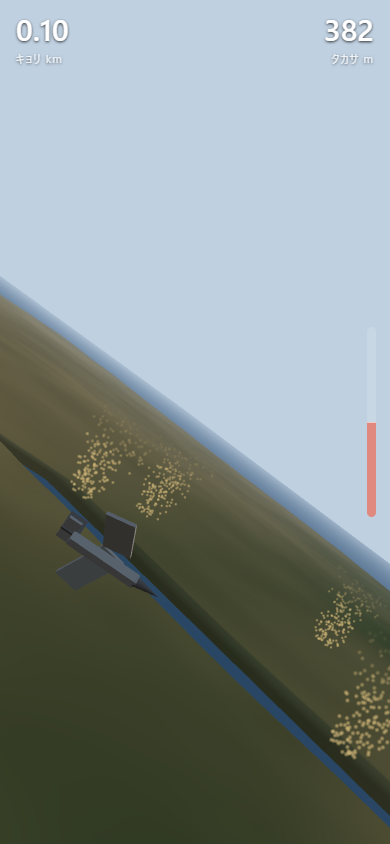
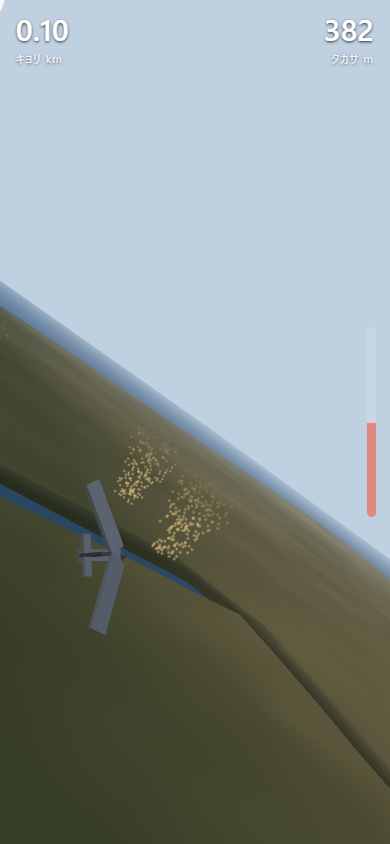
左右の符号を直した(機体の向き・旋回方向・地形の裏面)
所長の指摘どおり、動きが根本的に間違っていた。

- 機体の向きが左右反転しており、曲がった角度の2倍だけ機首がずれていった。
  出発時は head=0 なので直進中は正しく見え、旋回して初めて破綻する。
  「旋回後に戻らない」「先端がこちらを向く」はこれが原因。
- three.jsは右手系で +X は画面の左に出る。シミュレーション側の x をそのまま
  渡していたので、右を押すと画面では左へ曲がっていた。
- 上を直した結果、X反転で三角形の巻き順が逆になり地形が裏面で消えたので巻き順も反転。

これまでのタッチ検査は bank の符号しか見ておらず、画面がどちらに回るかを
一度も確かめていなかった。tools/check-signs.mjs を追加して、
正面の目印の流れる向き・翼の上下・地平線の傾き・機首と進行方向のズレを検査する。

diff --git a/src/scene.js b/src/scene.js
@@ -1,5 +1,9 @@
 import * as THREE from 'three';
 
+// three.jsは右手系で、+X は画面の左に出る。
+// シミュレーション側の x(右が正) をそのまま渡すと左右が反転するので、描画のときだけ反転させる。
+const SX = -1;
+
 // 地形は運ばず、その場で作る。プレイヤーに合わせて格子をスナップして高さを引き直す。
 class Ground {
   constructor(terrain, size, seg, opts = {}) {
@@ -12,7 +16,7 @@ class Ground {
     const idx = [];
     for (let j = 0; j < seg; j++) for (let i = 0; i < seg; i++) {
       const a = j * (seg + 1) + i, b = a + 1, c = a + seg + 1, d = c + 1;
-      idx.push(a, c, b, b, c, d);
+      idx.push(a, b, c, b, d, c);   // SXでX反転しているぶん巻き順も反転
     }
     g.setAttribute('position', new THREE.BufferAttribute(this.pos, 3));
     g.setAttribute('color', new THREE.BufferAttribute(this.col, 3));
@@ -35,7 +39,7 @@ class Ground {
       let z = t.height(x, y);
       // 内側は高精細メッシュが描くので、ここは沈めて隠す
       if (hole && Math.abs(x - cx) < hole && Math.abs(y - cy) < hole) z = -9999;
-      this.pos[k] = x; this.pos[k + 1] = z; this.pos[k + 2] = y;
+      this.pos[k] = SX * x; this.pos[k + 1] = z; this.pos[k + 2] = y;
       const m = t.moisture(x, y);
       c.copy(dry).lerp(wet, m);
       const grain = 0.86 + 0.28 * t.grain(x, y);   // 近景の手がかり(速度と向きが読める)
@@ -113,7 +117,7 @@ class Dust {
         if (p.u > 1) { p.u -= 1; p.a = Math.random() * Math.PI * 2; p.r = Math.random(); }
         const rad = c.R * (0.18 + 0.72 * p.r) * (0.35 + 0.65 * p.u);
         const k = n * 3;
-        this.pos[k] = c.x + Math.cos(p.a + p.u * 5.0) * rad;
+        this.pos[k] = SX * (c.x + Math.cos(p.a + p.u * 5.0) * rad);
         this.pos[k + 1] = c.gz + 6 + (c.top - c.gz + 60) * p.u;
         this.pos[k + 2] = c.y + Math.sin(p.a + p.u * 5.0) * rad;
         this.alpha[n] = Math.min(1, (1 - p.u) * 1.7) * Math.min(1, c.W / 7);
@@ -156,7 +160,7 @@ class Clouds {
         if (!s || s.c !== c) s = this.seeds[n] = { c, a: Math.random() * 6.28, r: Math.random(), h: Math.random() };
         const rad = c.R * (0.25 + 0.85 * s.r);
         const k = n * 3;
-        this.pos[k] = c.x + Math.cos(s.a) * rad;
+        this.pos[k] = SX * (c.x + Math.cos(s.a) * rad);
         this.pos[k + 1] = c.top + 40 + s.h * 55;
         this.pos[k + 2] = c.y + Math.sin(s.a) * rad;
         this.alpha[n] = 0.75 * Math.min(1, (c.W - 6.5) / 2.5);
@@ -245,6 +249,16 @@ export class View {
   // 検査用: 座標を画面のピクセルへ落とす
   projectLocal(x, y, z) { return this._proj(new THREE.Vector3(x, y, z).applyMatrix4(this.glider.matrixWorld)); }
   projectWorld(x, y, z) { return this._proj(new THREE.Vector3(x, y, z)); }
+  // 検査用: 機首が向いている向きと、実際に進んでいる向き。ここがズレると機首が明後日を向く
+  gliderForward() {
+    const d = new THREE.Vector3(0, 0, 1).transformDirection(this.glider.matrixWorld);
+    return [d.x, d.y, d.z];
+  }
+  velocityDir(g) {
+    const SXv = SX;
+    const d = new THREE.Vector3(SXv * Math.sin(g.head), 0, Math.cos(g.head)).normalize();
+    return [d.x, d.y, d.z];
+  }
   _proj(v) {
     const q = v.clone().project(this.camera);
     const s = this.renderer.getSize(new THREE.Vector2());
@@ -253,11 +267,11 @@ export class View {
   update(g, dt, sun) {
     this.far.update(g.x, g.y);
     this.near.update(g.x, g.y);
-    this.water.position.x = g.x; this.water.position.z = g.y;
+    this.water.position.x = SX * g.x; this.water.position.z = g.y;
     this.dust.update(g.x, g.y, dt, sun);
     this.clouds.update(g.x, g.y, sun);
-    this.glider.position.set(g.x, g.z, g.y);
-    this.glider.rotation.set(0, -g.head, -g.bank * 1.0, 'YXZ');
+    this.glider.position.set(SX * g.x, g.z, g.y);
+    this.glider.rotation.set(0, -g.head, g.bank, 'YXZ');
     // 夕暮れ。時計ではなく空の色で残り時間が分かる
     const day = new THREE.Color(0xbfd0e0), dusk = new THREE.Color(0xd98a5a), night = new THREE.Color(0x2b3348);
     const sky = sun > 0.35
@@ -267,12 +281,12 @@ export class View {
     this.sunLight.intensity = 0.35 + 1.25 * sun;
     // 太陽は +Y の方角、高度は日照とともに下がる
     const elev = (2.5 + 11 * sun) * Math.PI / 180, D = 9000;
-    const sx = g.x, sy = g.z + Math.sin(elev) * D + 60, sz = g.y + Math.cos(elev) * D;
+    const sx = SX * g.x, sy = g.z + Math.sin(elev) * D + 60, sz = g.y + Math.cos(elev) * D;
     this.sunDisc.position.set(sx, sy, sz);
     this.sunDisc.scale.setScalar(300 + 260 * (1 - sun));
     this.sunDisc.lookAt(this.camera.position);
     this.sunDisc.material.color.setHSL(0.11, 0.55 * (1 - sun) + 0.08, 0.92 - 0.12 * (1 - sun));
-    this.sunLight.position.set(0, Math.sin(elev), Math.cos(elev));
+    this.sunLight.position.set(SX * 0.35, Math.sin(elev), Math.cos(elev));
     const tall = Math.max(0, 1 - this.camera.aspect);      // 縦持ちほど大きい
     const back = 105, up = 28;
     // カメラは機体の向きに遅れてついていく。遅れる分だけ、機体が画面の中で振れて見える
@@ -282,8 +296,8 @@ export class View {
     while (e < -Math.PI) e += 2 * Math.PI;
     this.camHead += e * (1 - Math.exp(-dt / 0.75));
     const ch = this.camHead;
-    this.camera.position.set(g.x - Math.sin(ch) * back, g.z + up, g.y - Math.cos(ch) * back);
-    this.camera.lookAt(g.x + Math.sin(ch) * 320, g.z + 7 + 16 * tall, g.y + Math.cos(ch) * 320);
+    this.camera.position.set(SX * (g.x - Math.sin(ch) * back), g.z + up, g.y - Math.cos(ch) * back);
+    this.camera.lookAt(SX * (g.x + Math.sin(ch) * 320), g.z + 7 + 16 * tall, g.y + Math.cos(ch) * 320);
     this.camera.rotation.z += g.bank * 0.75;
     this.renderer.render(this.scene, this.camera);
   }

diff --git a/src/main.js b/src/main.js
@@ -138,7 +138,9 @@ window.__slice = {
   forceInput: null,
   _view() { return { camHead: view.camHead, dust: view.dust.points, clouds: view.clouds.points,
                      local: (x, y, z) => view.projectLocal(x, y, z),
-                     world: (x, y, z) => view.projectWorld(x, y, z) }; },
+                     world: (x, y, z) => view.projectWorld(x, y, z),
+                     noseDir: () => view.gliderForward(),
+                     velDir: () => view.velocityDir(glider) }; },
   reset,
 };
 

diff --git a/docs/FINDINGS.md b/docs/FINDINGS.md
@@ -84,3 +84,32 @@ km規模・複数サーマルへ広げ、自動操縦で飛ばして比較した
 - 実機GPUでの描画コマ数（測定はswiftshader）
 - 縦持ちと横持ちのどちらを基準にするか
 - 8シード中1つ（seed 113 相当）に出た「今日は飛べない日」を残すか潰すか
+
+## 左右の符号を2か所間違えていた（2026-09-16 遊んでの指摘から）
+
+所長の指摘:「右が上がったら左に曲がるんじゃない？」「旋回後にカメラがリセットされない」「先端がこちら側を向く」
+
+**原因1: 機体の向きが左右反転していた。**
+`glider.rotation.y = -head` としていたが、描画側の座標を反転していなかったため、
+機首が進行方向と反対側を向いていた。出発時は head=0 なので正しく見え、
+**曲がった角度の2倍だけ機首がずれていく**。一周すれば機首はこちらを向く。
+所長が見たのはこれ。
+
+**原因2: three.jsは右手系で +X は画面の左に出る。**
+シミュレーション側の x(右が正) をそのまま渡していたので、
+右を押すと画面では左へ曲がっていた。
+
+**原因3(原因2を直したときに出た): X反転で三角形の巻き順が逆になり、地形が裏面になって消えた。**
+背面カリングで地形が描かれず、下に敷いた水面が見えていた。
+
+**検査が通っていた理由。**
+タッチ検査は「右を押したら bank が正になるか」しか見ていなかった。
+数字の符号は合っていて、画面がどちらに回るかを一度も確かめていなかった。
+`tools/check-signs.mjs` を追加し、以下を見るようにした。
+
+- 正面の目印が画面のどちらへ流れるか（右旋回なら左へ）
+- 画面で右側にある翼が下がっているか
+- 地平線の右側が上がっているか
+- **機首の向きと進行方向のズレ**（0度でなければ機首が明後日を向く）
+
+教訓: 向きや左右は、内部の数値の符号ではなく**画面のどちらへ動くか**で検査する。
